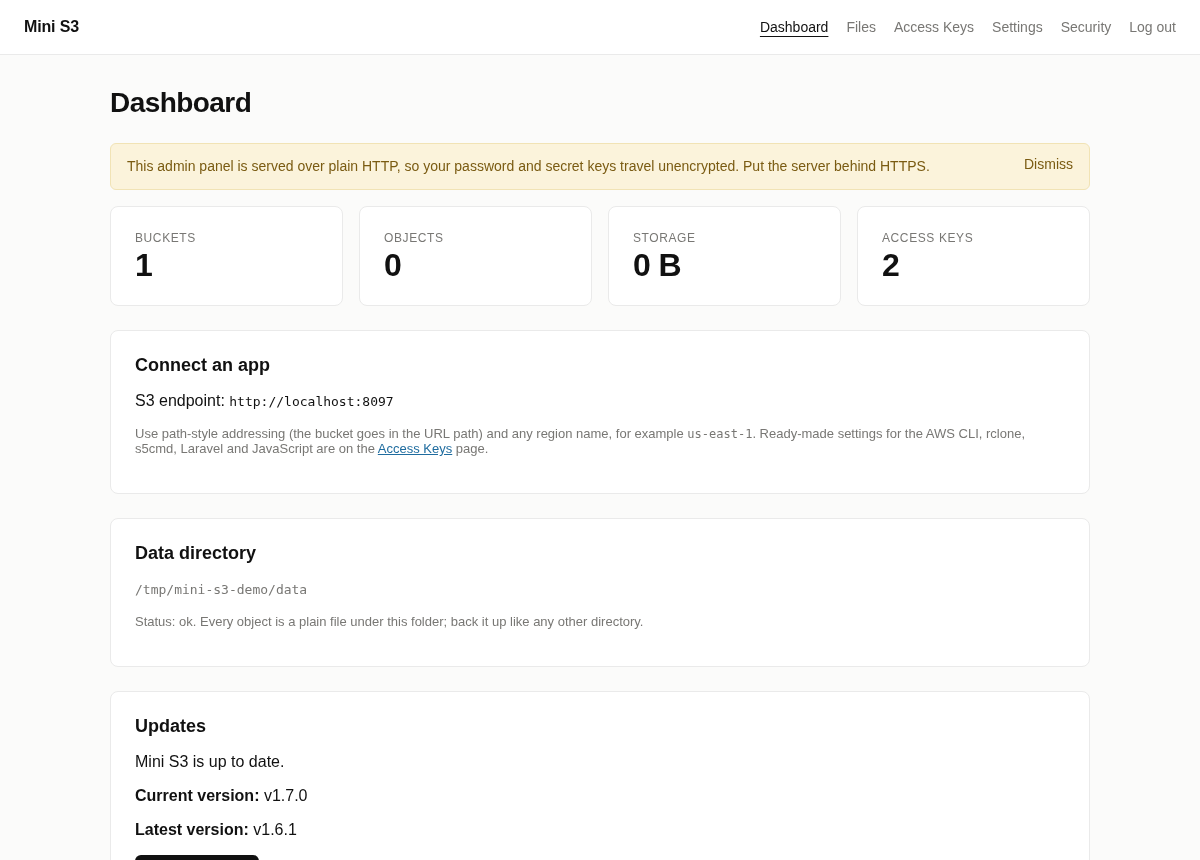
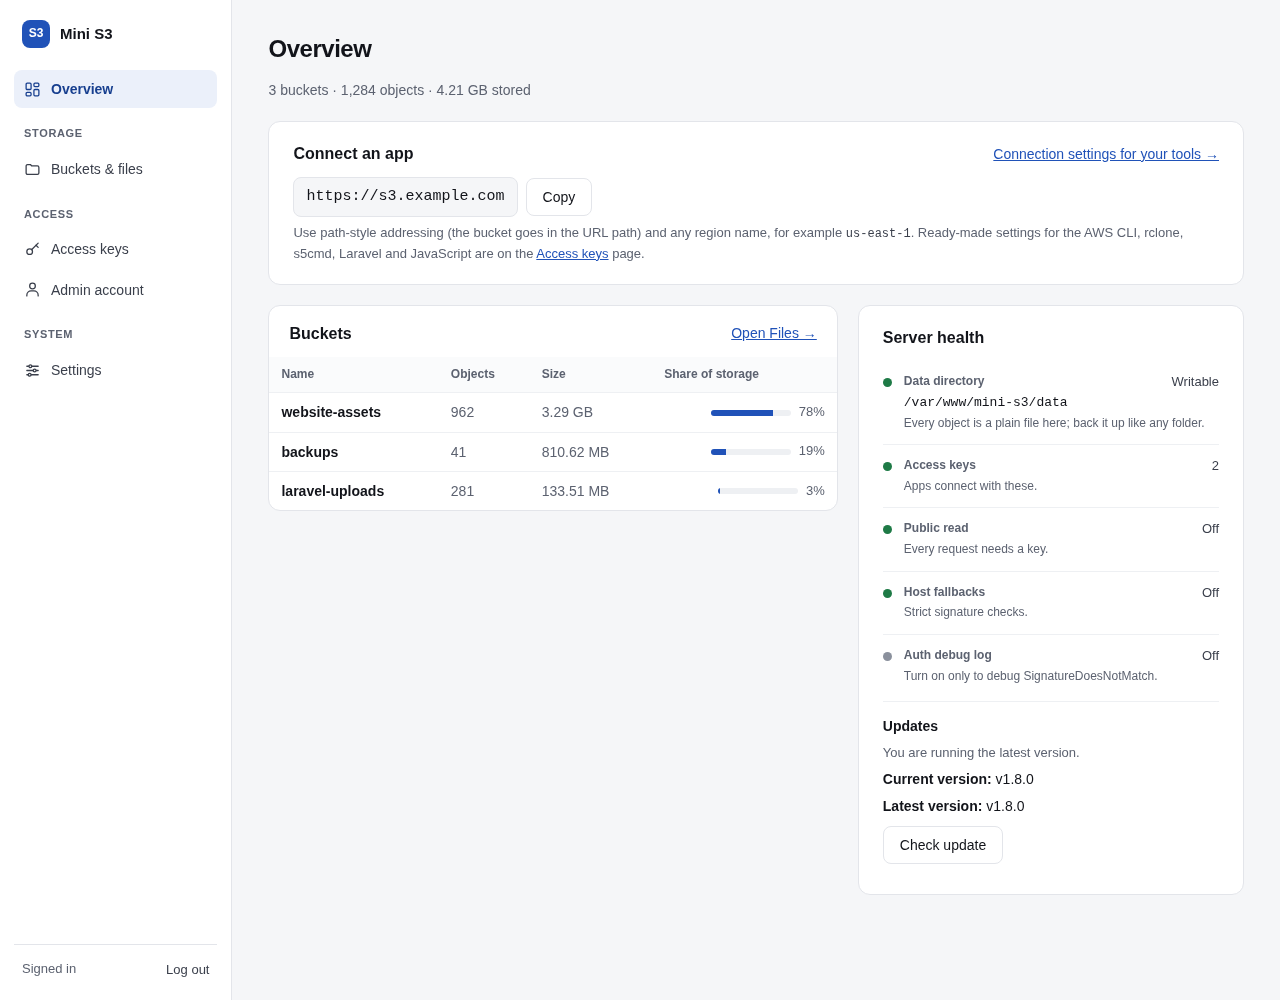
README: new admin page names and screenshots

diff --git a/README.md b/README.md
@@ -373,11 +373,11 @@ After installation, log in at `/_`:
 
 | Page | Path | What it does |
 |---|---|---|
-| Dashboard | `/_` | Bucket, object, storage and key counts, the S3 endpoint, warnings about risky settings, and update checks |
-| Files | `/_/files` | Browse, upload, rename and delete buckets, folders and objects |
-| Access Keys | `/_/keys` | Create, label, change permission, view secrets and delete access keys; copy settings for env vars, Laravel, AWS CLI, rclone, s5cmd and JavaScript |
+| Overview | `/_` | Storage per bucket, the S3 endpoint with a Copy button, server health (data directory, keys, risky settings) and update checks |
+| Buckets & files | `/_/files` | Browse, upload, rename and delete buckets, folders and objects; click a file to see its details |
+| Access keys | `/_/keys` | Create, label, change permission, view secrets and delete access keys; copy settings for env vars, Laravel, AWS CLI, rclone, s5cmd and JavaScript |
 | Settings | `/_/settings` | Data directory, max upload size, public read, and advanced signature settings (`/_/config` redirects here) |
-| Security | `/_/security` | Change the admin username and password |
+| Admin account | `/_/security` | Change the admin username and password |
 
 Every setting has help text next to it. Fields set by an environment variable are shown as locked, because the environment overrides `config/config.php`.
 
@@ -385,7 +385,7 @@ Every setting has help text next to it. Fields set by an environment variable ar
 
 ### Access keys and read-only access (PHP edition)
 
-Apps connect with an access key and its secret. Create one key per app on the **Access Keys** page, so you can remove one app without touching the others. Keys are generated for you (`AK` + 18 characters; 40-character secret), and changes take effect immediately, with no restart.
+Apps connect with an access key and its secret. Create one key per app on the **Access keys** page, so you can remove one app without touching the others. Keys are generated for you (`AK` + 18 characters; 40-character secret), and changes take effect immediately, with no restart.
 
 | Permission | Allowed | Refused (`403 AccessDenied`) |
 |---|---|---|
@@ -394,7 +394,7 @@ Apps connect with an access key and its secret. Create one key per app on the **
 
 Use read-only keys for websites, CDNs and anything that should never change data. This is safer than **Public read**, which lets anyone download every object without a key.
 
-Secrets can be viewed again on the Access Keys page at any time. They are stored in `config/config.php` (which is written with `0600` permissions), because AWS Signature V4 needs the plain secret to verify requests. The last key cannot be deleted.
+Secrets can be viewed again on the Access keys page at any time. They are stored in `config/config.php` (which is written with `0600` permissions), because AWS Signature V4 needs the plain secret to verify requests. The last key cannot be deleted.
 
 ![Mini S3 access keys](docs/screenshots/access-keys.png)
 
@@ -409,7 +409,7 @@ export MINI_S3_CREDENTIALS_JSON='{"prod-key":"prod-secret","cdn-key":{"secret":"
 export MINI_S3_DATA_DIR='/var/lib/mini-s3/data'
 ```
 
-When credentials come from `MINI_S3_CREDENTIALS_JSON`, the Access Keys page lists them read-only and the installer does not generate a key.
+When credentials come from `MINI_S3_CREDENTIALS_JSON`, the Access keys page lists them read-only and the installer does not generate a key.
 
 **Option 2: Local `config/config.php`** (recommended for file-based config). Copy `config.example.php` to `config/config.php` and edit it. The file is ignored by git and should contain local deployment values only.
 
